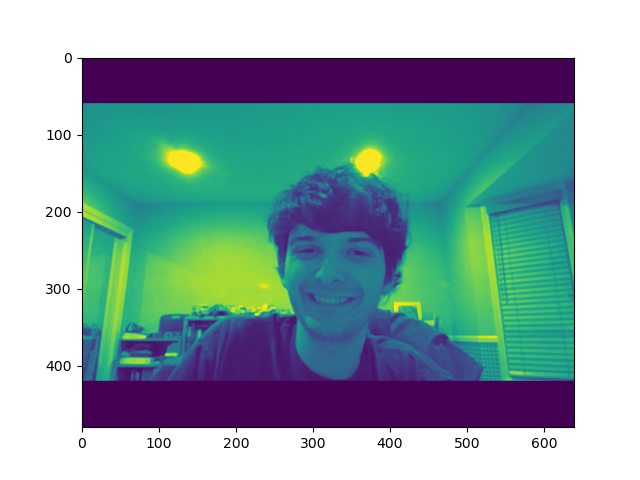
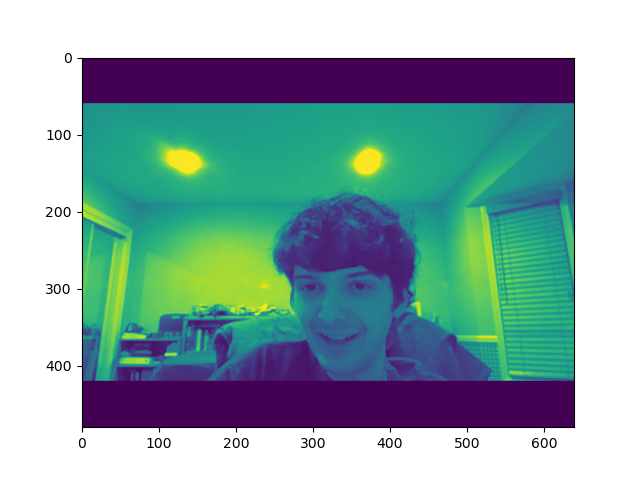
Add face cropping

Changed region(s): [[0.25, 0.3125, 0.7188, 0.8125], [0.75, 0.75, 0.7812, 0.8125], [0.7188, 0.7188, 0.75, 0.75]]

diff --git a/main.py b/main.py
@@ -55,6 +55,17 @@ def capture_face():
     plt.imshow(gray_img)
     plt.savefig("test.png")
 
+    faces_detected = face_haar_cascade.detectMultiScale(gray_img, 1.32, 5)
+    for (x,y,w,h) in faces_detected:
+        roi_gray=gray_img[y:y+w,x:x+h]#cropping region of interest i.e. face area from  image
+        roi_gray=cv2.resize(roi_gray,(48,48))
+        img_pixels = image.img_to_array(roi_gray)
+        img_pixels = np.expand_dims(img_pixels, axis = 0)
+        img_pixels /= 255
+        
+        plt.imshow(roi_gray)
+        plt.savefig("face.png")
+
 class Window(Frame):
     def __init__(self, master=None):
         Frame.__init__(self,master)
